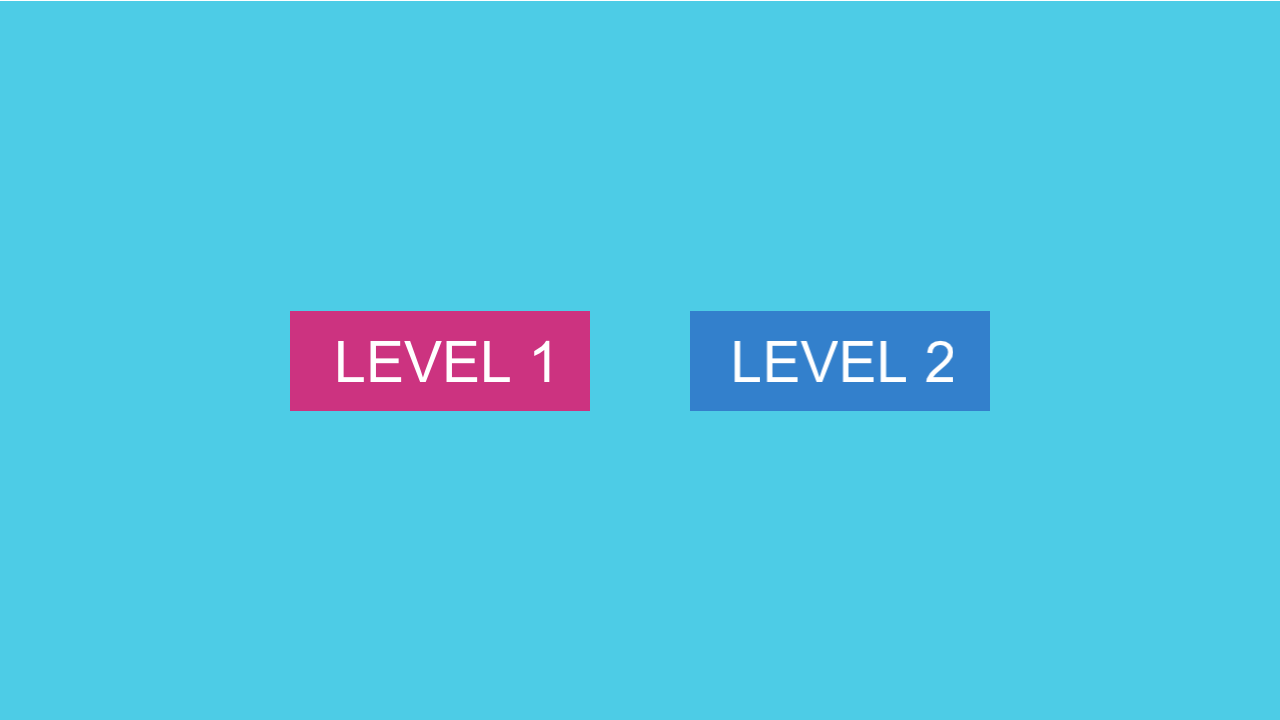
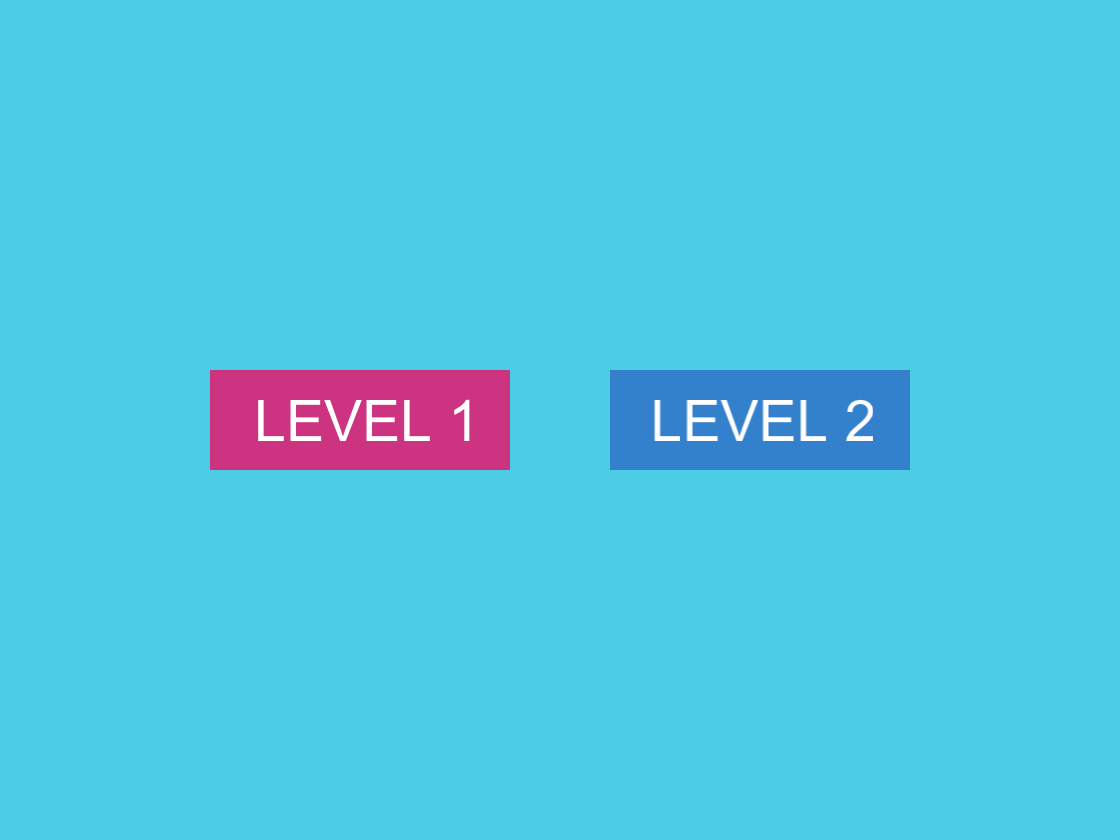
Map file independent from screen dimension. Updated the README.

Changed region(s): [[0.5312, 0.4278, 0.8125, 0.5806], [0.1875, 0.4278, 0.4688, 0.5806]]

diff --git a/src/pp_game.cpp b/src/pp_game.cpp
@@ -34,6 +34,10 @@
             glob->current_level = temp_level;\
             glob->state.current_case = new_case;\
             return;\
+        } else {\
+            std::cout << "[ERROR] Could not prepare case: "\
+                      << get_case_name(new_case)\
+                      << std::endl;\
         }\
     } while(0)
 
@@ -82,17 +86,22 @@ int load_map_from_file(const char *file_path,
                        PR::Obstacle **obstacles,
                        size_t *number_of_obstacles,
                        PR::BoostPad **boosts,
-                       size_t *number_of_boosts) {
+                       size_t *number_of_boosts,
+                       float width, float height) {
+
+    // NOTE: The screen resolution
+    width = width / SCREEN_WIDTH_PROPORTION;
+    height = height / SCREEN_HEIGHT_PROPORTION;
     
     int result = 0;
     FILE *map_file;
 
     {
         map_file = std::fopen(file_path, "r");
-        if (map_file == NULL) return_defer(errno);
+        if (map_file == NULL) return_defer(1);
 
         std::fscanf(map_file, " %zu", number_of_obstacles);
-        if (std::ferror(map_file)) return_defer(errno);
+        if (std::ferror(map_file)) return_defer(1);
 
         std::cout << "[LOADING] " << *number_of_obstacles
                   << " obstacles from the file " << file_path
@@ -113,31 +122,31 @@ int load_map_from_file(const char *file_path,
                         &collide_plane, &collide_rider, &triangle,
                         &x, &y, &w, &h, &r);
 
-            if (std::ferror(map_file)) return_defer(errno);
+            if (std::ferror(map_file)) return_defer(1);
             // TODO: You cannot check feof on the obstacles
             //       because after them there are the boosts
             if (std::feof(map_file)) {
                 *number_of_obstacles = obstacle_index;
                 std::cout << "[WARNING] Found only " << obstacle_index
                           << " obstacles in the map file" << std::endl;
-                return_defer(errno);
+                return_defer(1);
             }
 
             PR::Obstacle *obs = *obstacles + obstacle_index;
-            obs->body.pos.x = x;
-            obs->body.pos.y = y;
-            obs->body.dim.x = w;
-            obs->body.dim.y = h;
+            obs->body.pos.x = x * width;
+            obs->body.pos.y = y * height;
+            obs->body.dim.x = w * width;
+            obs->body.dim.y = h * height;
             obs->body.angle = r;
             obs->body.triangle = triangle;
 
             obs->collide_plane = collide_plane;
             obs->collide_rider = collide_rider;
 
-            std::cout << "x: " << x
-                      << " y: " << y
-                      << " w: " << w
-                      << " h: " << h
+            std::cout << "x: " << x * width
+                      << " y: " << y * height
+                      << " w: " << w * width
+                      << " h: " << h * height
                       << " r: " << r
                       << std::endl;
 
@@ -145,7 +154,7 @@ int load_map_from_file(const char *file_path,
 
         // NOTE: Loading the boosts from memory
         std::fscanf(map_file, " %zu", number_of_boosts);
-        if (std::ferror(map_file)) return_defer(errno);
+        if (std::ferror(map_file)) return_defer(1);
 
         std::cout << "[LOADING] " << *number_of_boosts
                   << " boost pads from file " << file_path
@@ -165,28 +174,28 @@ int load_map_from_file(const char *file_path,
                         " %i %f %f %f %f %f %f %f",
                         &triangle, &x, &y, &w, &h, &r, &ba, &bp);
 
-            if (std::ferror(map_file)) return_defer(errno);
+            if (std::ferror(map_file)) return_defer(1);
             if (std::feof(map_file)) {
                 *number_of_boosts = boost_index;
                 std::cout << "[WARNING] Found only " << boost_index
                           << " boosts in the map file" << std::endl;
-                return_defer(errno);
+                break;
             }
 
             PR::BoostPad *pad = *boosts + boost_index;
-            pad->body.pos.x = x;
-            pad->body.pos.y = y;
-            pad->body.dim.x = w;
-            pad->body.dim.y = h;
+            pad->body.pos.x = x * width;
+            pad->body.pos.y = y * height;
+            pad->body.dim.x = w * width;
+            pad->body.dim.y = h * height;
             pad->body.angle = r;
             pad->body.triangle = triangle;
             pad->boost_angle = ba;
             pad->boost_power = bp;
 
-            std::cout << "x: " << x
-                      << " y: " << y
-                      << " w: " << w
-                      << " h: " << h
+            std::cout << "x: " << x * width
+                      << " y: " << y * height
+                      << " w: " << w * width
+                      << " h: " << h * height
                       << " r: " << r
                       << " ba: " << ba
                       << " bp: " << bp
@@ -1083,14 +1092,16 @@ void level1_draw() {
 }
 
 int level2_prepare(PR::Level *level) {
+    PR::WinInfo *win = &glob->window;
+
     int loading_result = load_map_from_file("level2.prmap",
                                             &level->obstacles,
                                             &level->obstacles_number,
                                             &level->boosts,
-                                            &level->boosts_number);
+                                            &level->boosts_number,
+                                            win->w, win->h);
     if (loading_result != 0) return loading_result;
 
-    PR::WinInfo *win = &glob->window;
 
     glfwSetInputMode(win->glfw_win, GLFW_CURSOR, GLFW_CURSOR_HIDDEN);
 
@@ -1160,6 +1171,8 @@ int level2_prepare(PR::Level *level) {
 
     PR::Atmosphere *air = &level->air;
     air->density = 0.015f;
+
+    std::cout << "level 2 prepared" << std::endl;
 
     return 0;
 }

diff --git a/src/main.cpp b/src/main.cpp
@@ -38,8 +38,8 @@ int main() {
 
     glob = (PR*) std::malloc(sizeof(PR));
     glob->window.title = "PaperPlane";
-    glob->window.w = 1280;
-    glob->window.h = 720;
+    glob->window.w = (uint32_t) (SCREEN_WIDTH_PROPORTION * 3.5f);
+    glob->window.h = (uint32_t) (SCREEN_HEIGHT_PROPORTION * 3.5f);
 
     glfwInit();
     glfwWindowHint(GLFW_CONTEXT_VERSION_MAJOR, 4);
@@ -95,6 +95,9 @@ int main() {
 
             // TODO: Debug flag
             std::cout << "FPS: " << fps_to_display << std::endl;
+            /*std::cout << "Current case: "
+                      << get_case_name(glob->state.current_case)
+                      << std::endl;*/
         }
 
         glClearColor(0.3f, 0.8f, 0.9f, 1.0f);
@@ -105,6 +108,7 @@ int main() {
         if (glob->input.exit.clicked) {
             glfwSetWindowShouldClose(glob->window.glfw_win, true);
         }
+
 
         switch (glob->state.current_case) {
             case PR::MENU:

diff --git a/src/pp_game.h b/src/pp_game.h
@@ -62,7 +62,6 @@ float horizontal_drag_coefficient(float angle) {
 
 inline
 Rect rect_in_camera_space(Rect r, PR::Camera *cam) {
-
     Rect res;
 
     res.pos = r.pos - cam->pos + glm::vec2(glob->window.w*0.5f, glob->window.h*0.5f);
@@ -85,7 +84,21 @@ TexCoords texcoords_in_texture_space(float x, float y,
     res.th = h / tex->height;
 
     return res;
+}
 
+inline
+const char *get_case_name(PR::GameCase c) {
+    switch (c) {
+        case PR::MENU:
+            return "MENU";
+        case PR::LEVEL1:
+            return "LEVEL 1";
+        case PR::LEVEL2:
+            return "LEVEL 2";
+        default:
+            return "UNKNOWN";
+    }
+    return "";
 }
 
 

diff --git a/src/pp_globals.h b/src/pp_globals.h
@@ -9,6 +9,9 @@
 #include "pp_input.h"
 #include "pp_rect.h"
 
+#define SCREEN_WIDTH_PROPORTION 320
+#define SCREEN_HEIGHT_PROPORTION 240
+
 #define ARRAY_LENGTH(arr) ((int)(sizeof(arr) / sizeof(arr[0])))
 
 struct PR {
@@ -135,8 +138,8 @@ struct PR {
     GameState state;
 
     struct WinInfo {
-        unsigned int w;
-        unsigned int h;
+        uint32_t w;
+        uint32_t h;
         const char* title;
         GLFWwindow* glfw_win;
     };

diff --git a/README.md b/README.md
@@ -31,6 +31,9 @@ The map file consists of a list of obstacles and a list of boost pads, in this o
 
 Before every list, the number of elements of that list has to be specified.
 
+**ATTENTION**: Values such as `x`, `y`, `width`, `height` have to be used as if the window width and screen height were respectively `320` and `240`.
+When the map is loaded, these values will get mapped to the actual width andheight of the window.
+
 To describe an obstacle these fields have to be present:
 - `collide_plane` (int): `0` if the obstacle does not collide with the plane, any other number otherwise.
 - `collide_rider` (int): `0` if the obstacle does not collide with the rider, any other number otherwise.
@@ -57,13 +60,13 @@ To describe a boost pad these fiels have to be present:
 Here's an exaple of a map file:
 ```
 4
-1 0 1 20.5 30  40  250 0
-1 1 0 550  40  300 150 20
-0 1 0 10   550 200 150 -20
-0 0 1 650  450 220 100 0
+1 0 1 5.125 7.5   10 62.5 0
+1 1 0 140   10    75 40   20
+0 1 0 3     140   50 40   -20
+0 0 1 162.5 112.5 55 25   0
 2
-0 200 125 250 150 0  0  5
-1 250 525 350 150 15 15 10
+0 50   30  62.5 40 0  0  5
+1 62.5 130 85   40 15 15 10
 ```
 And this is the result:
 ![Map example screenshot](./screenshots/map_result_example.png)
@@ -81,8 +84,5 @@ Rider jumping from the plane:
 ## Features to implement
 - Sound system
 - Improve the UI
-- Make the map file be independent from the resolution
-
-**Maybe**:
 - Map editor
-- Power-ups
+- Power-ups/Portals
